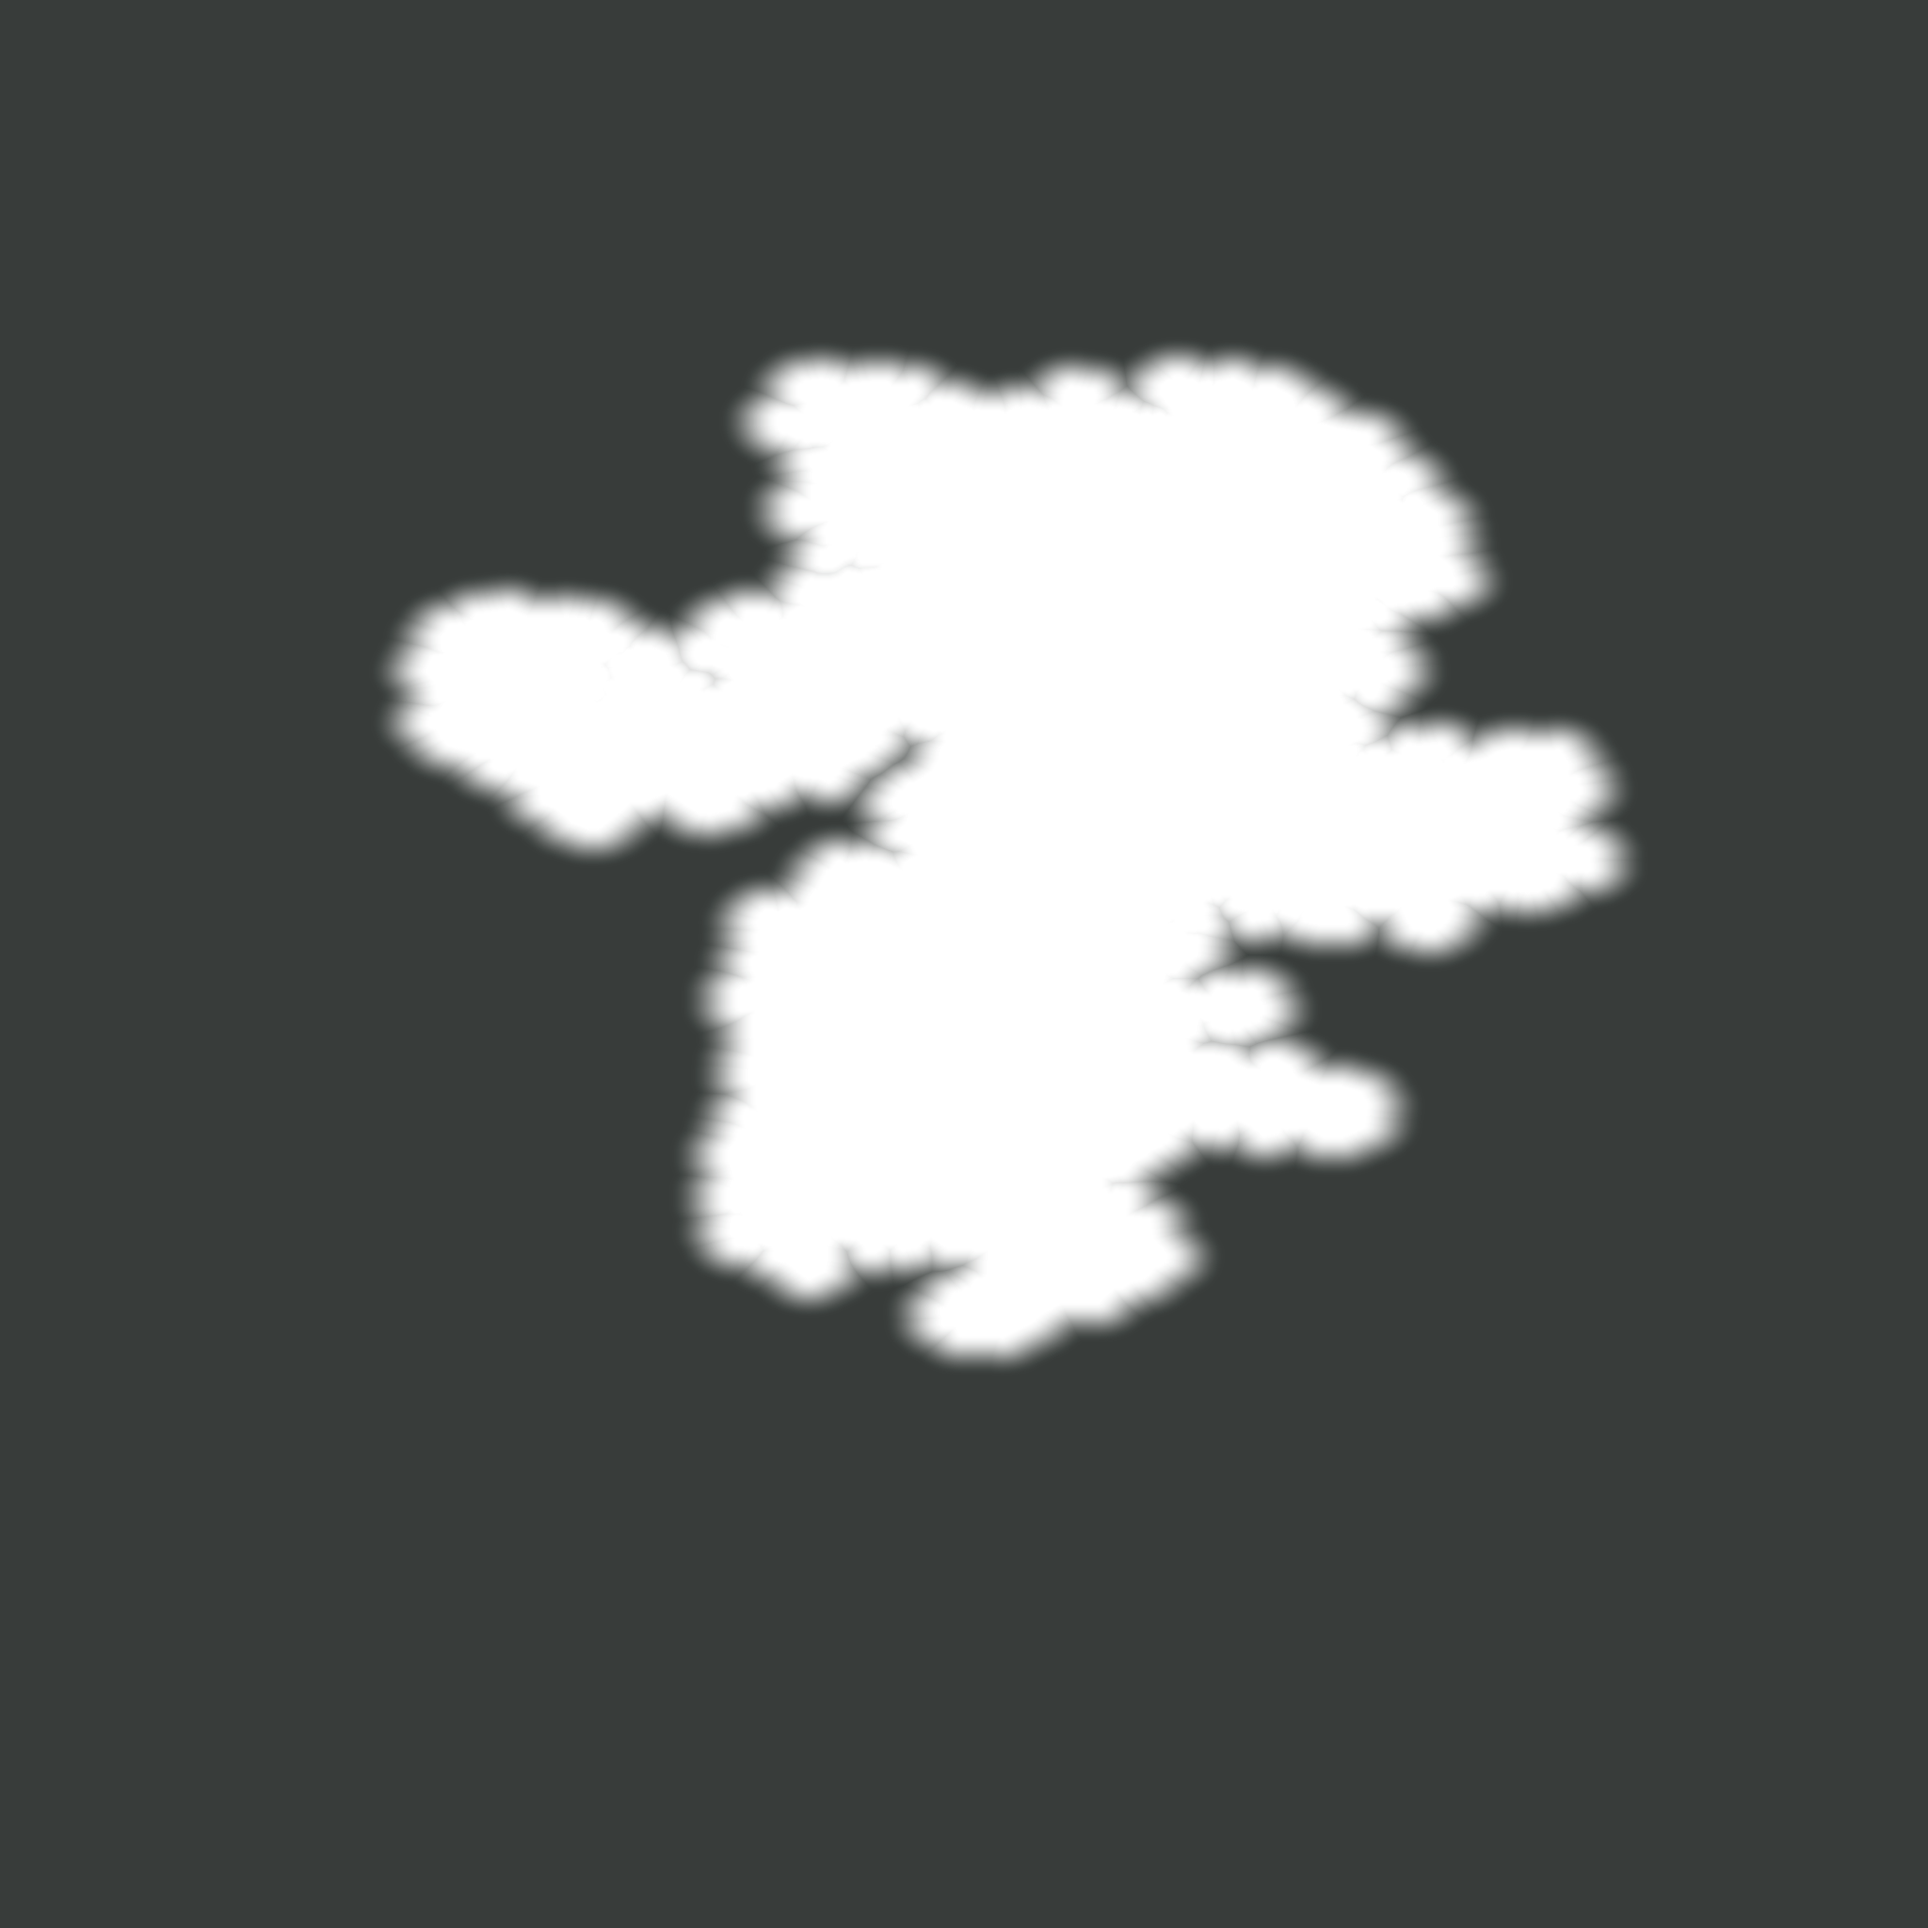
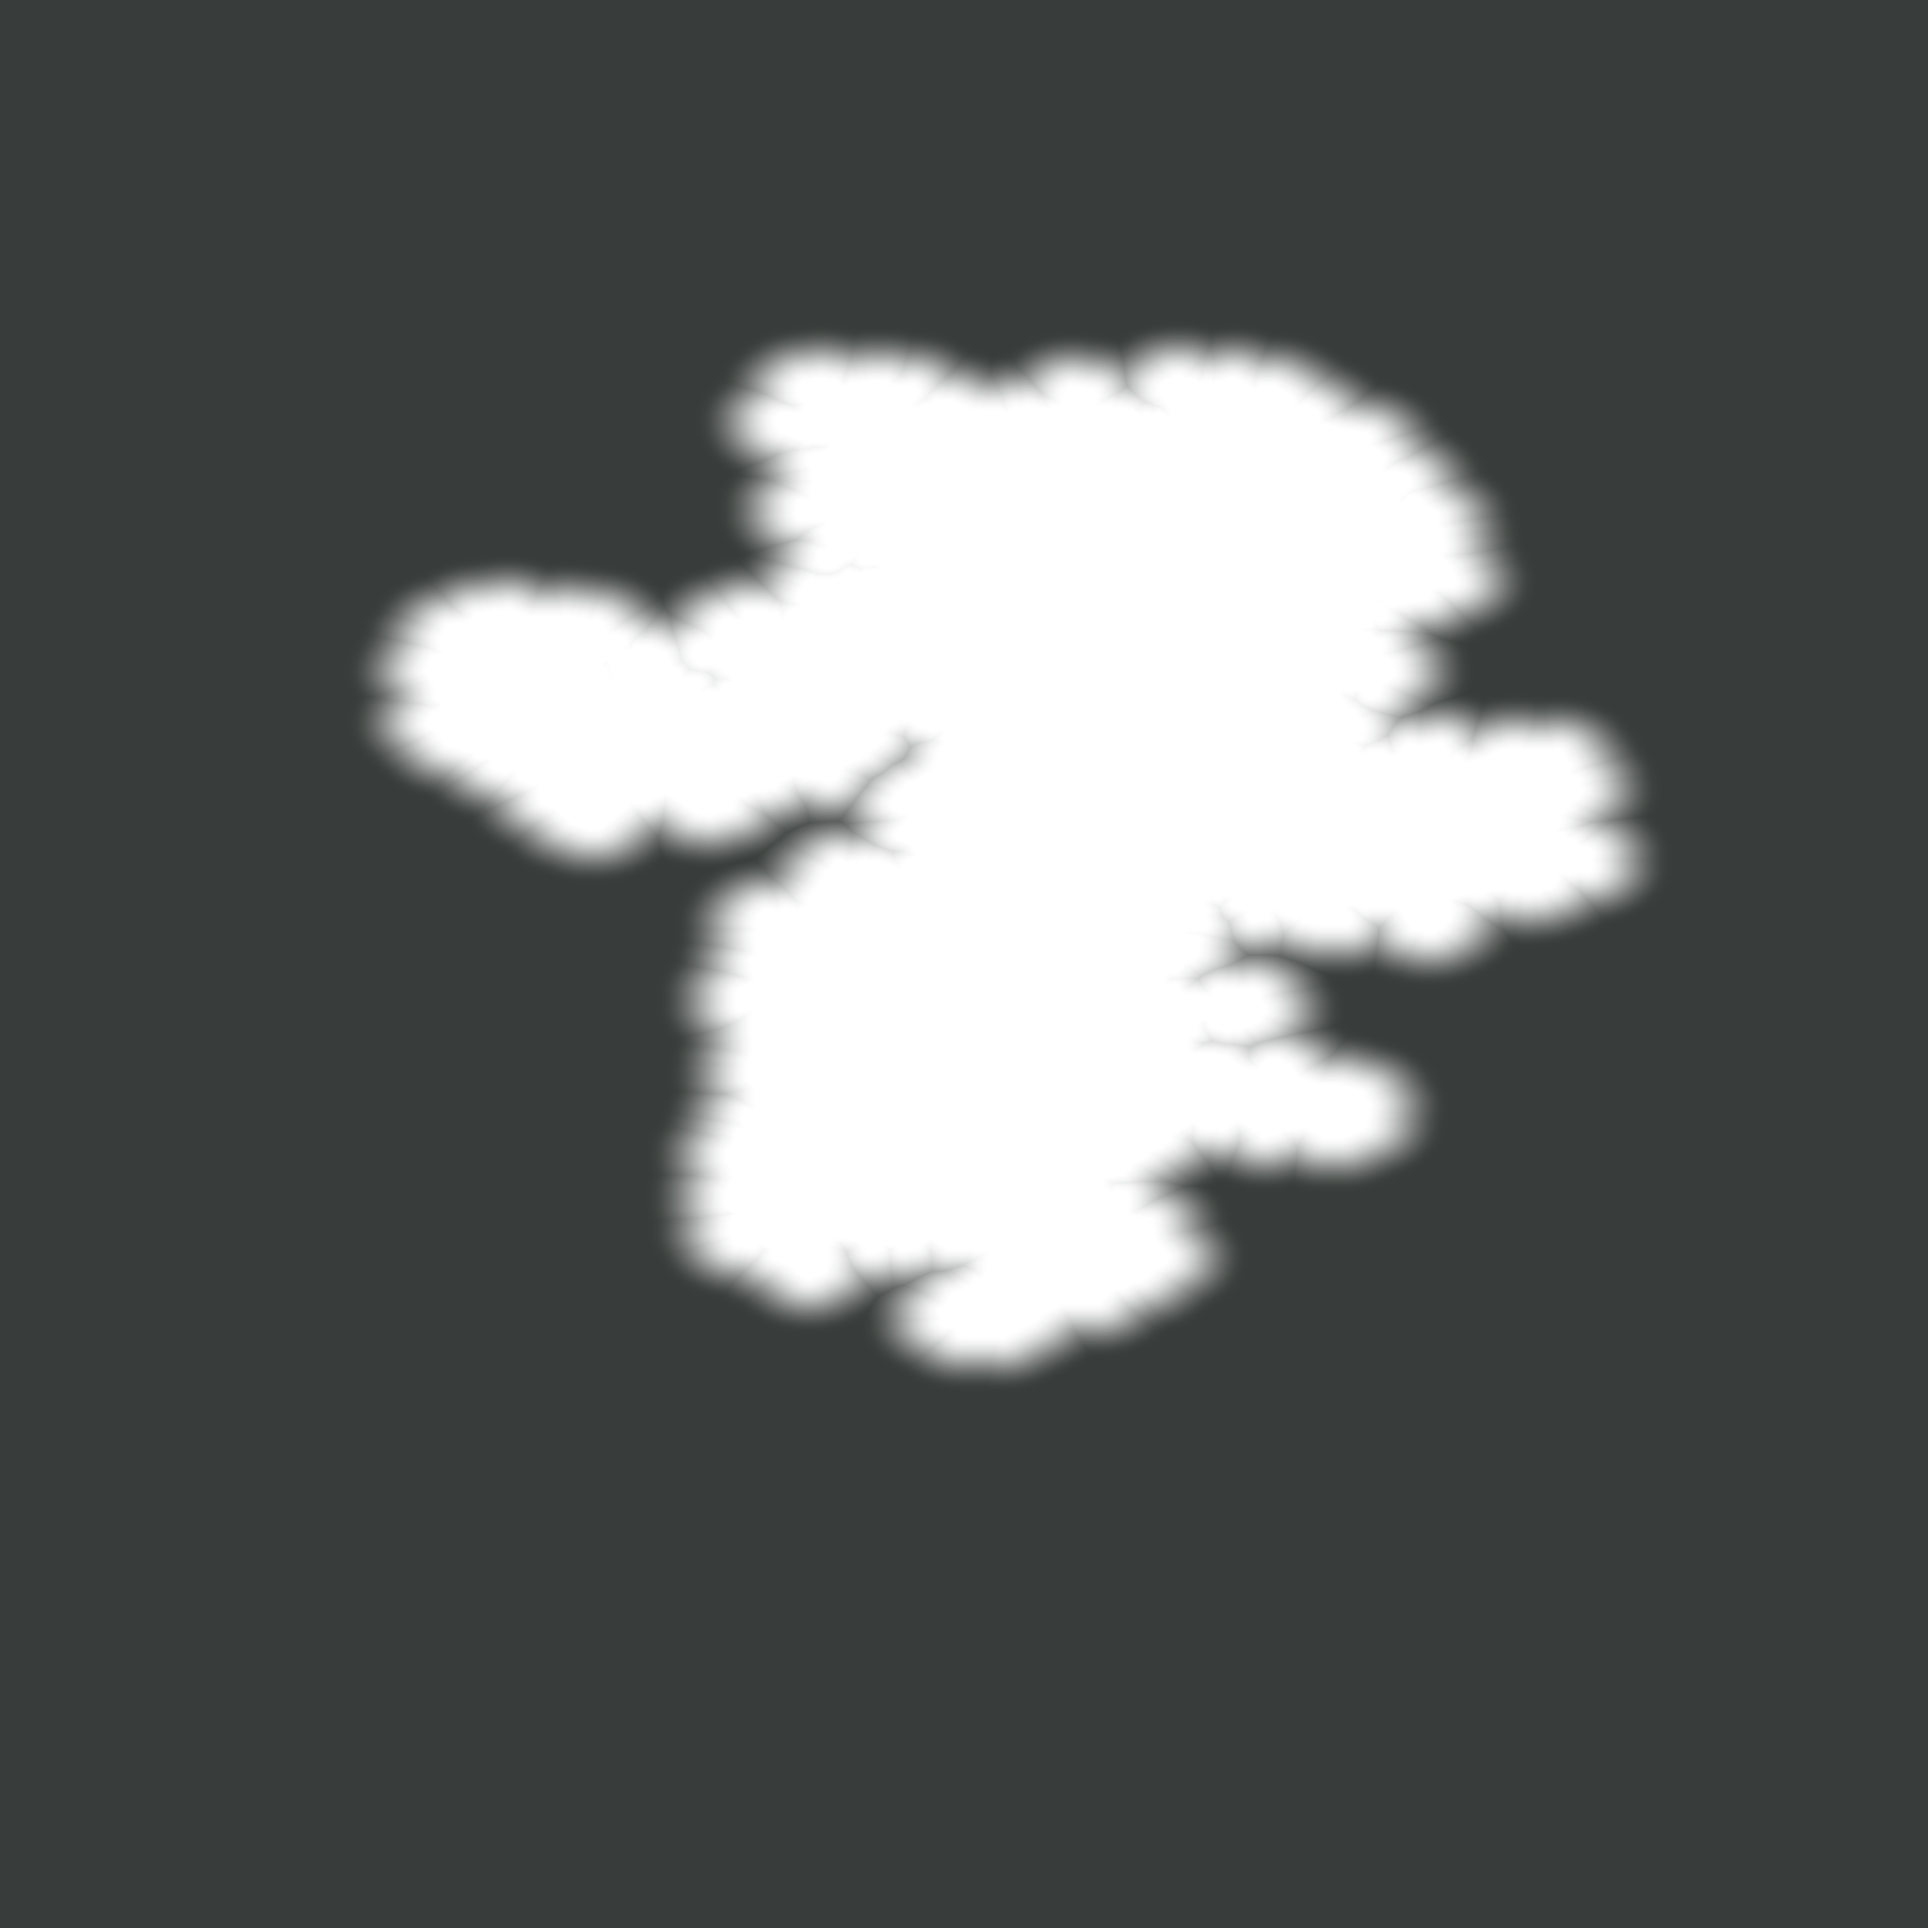
Показывать метки поверх затемнения карты

Changed region(s): [[0.1875, 0.1562, 0.875, 0.7188]]

diff --git a/frontend/src/components/map/MapView.tsx b/frontend/src/components/map/MapView.tsx
@@ -111,13 +111,15 @@ export const MapView = forwardRef<MapViewHandle, MapViewProps>(function MapView(
         url: '/data/chelyabinsk-oblast-shade.png',
         coordinates: [[54.8, 58], [65.2, 58], [65.2, 49], [54.8, 49]],
       });
-      // The transparent mask darkens the outside with a broad, soft fade.
-      // HTML POI, crystal, and player markers stay above this map style layer.
+      // Put the shade below map symbols: POI icons are MapLibre symbol layers,
+      // inserted immediately before place labels, so they stay visible outside
+      // the region too.
+      const firstSymbolLayer = style.layers.find((layer) => layer.type === 'symbol');
       map.addLayer({ id: 'chelyabinsk-oblast-outside-shade-layer', type: 'raster', source: shadeSource, paint: {
         'raster-opacity': 1,
         'raster-fade-duration': 0,
         'raster-resampling': 'linear',
-      } });
+      } }, firstSymbolLayer?.id);
 
       for (const layer of style.layers) {
         if (layer.type !== 'symbol') continue;
